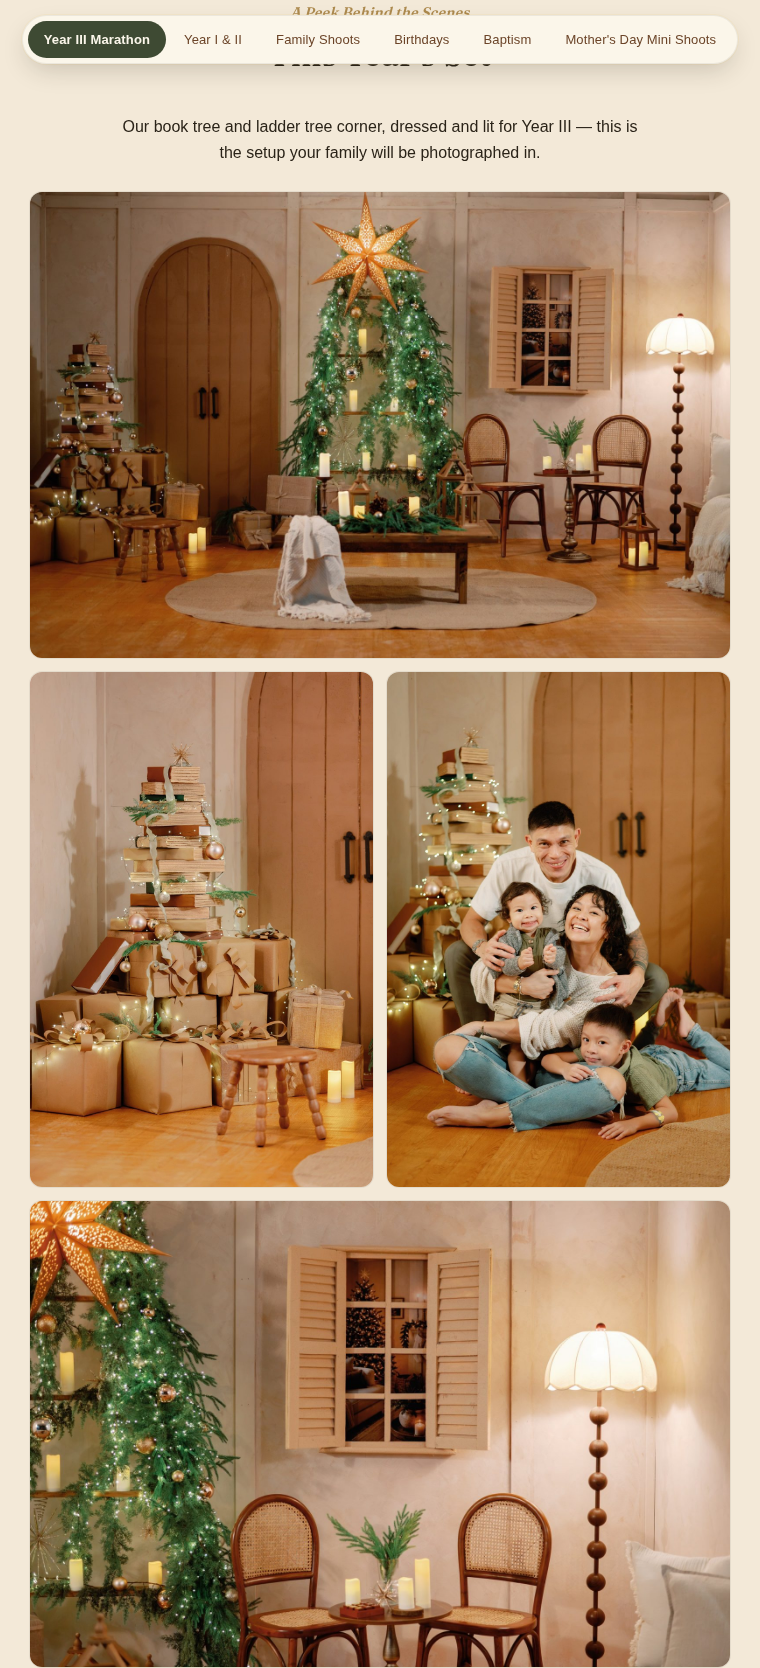
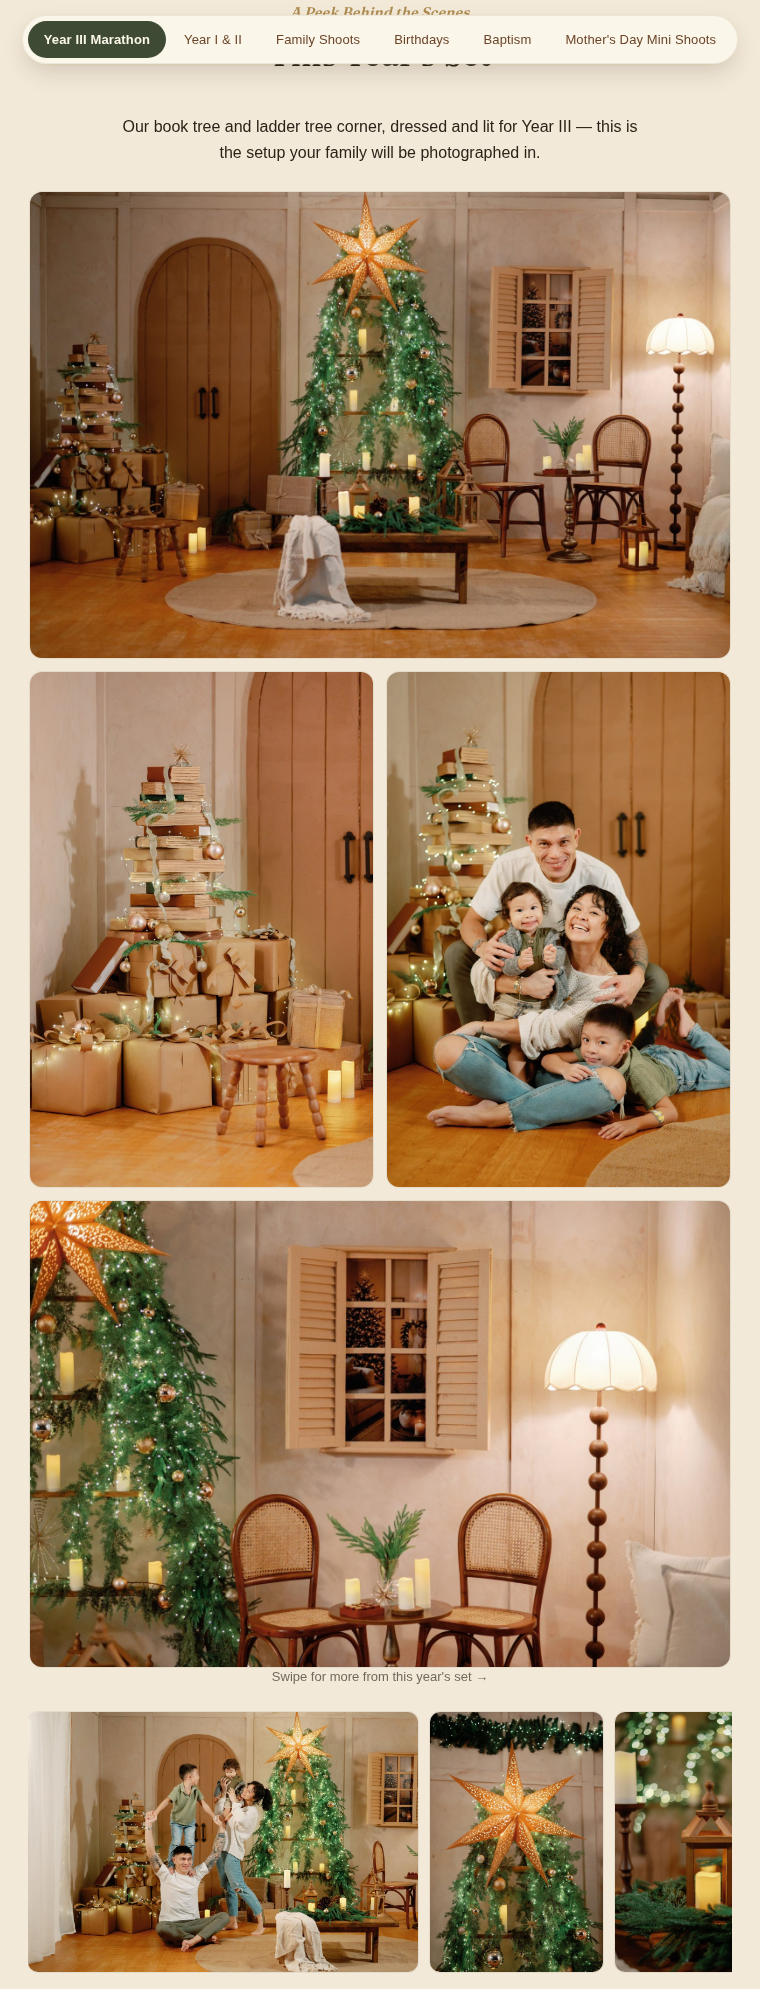
Add files via upload

diff --git a/index.html b/index.html
@@ -366,6 +366,16 @@
     color:var(--ink); opacity:0.7; font-style:italic;
   }
 
+  /* ---------- set strip (This Year's Set, extra photos) ---------- */
+  .set-strip{
+    display:flex; gap:12px; overflow-x:auto; -webkit-overflow-scrolling:touch;
+    scroll-snap-type:x mandatory; padding:4px 2px 16px; margin-top:20px;
+  }
+  .set-strip a{ flex:0 0 auto; scroll-snap-align:start; display:block; border-radius:10px; overflow:hidden; box-shadow:0 0 0 1px rgba(0,0,0,0.06); }
+  .set-strip img{ height:220px; width:auto; display:block; }
+  @media (min-width:680px){ .set-strip img{ height:260px; } }
+  .set-strip-note{ text-align:center; font-size:13px; color:var(--ink); opacity:0.65; margin:0 0 2px; }
+
   /* ---------- tab panels ---------- */
   .tab-panel{ display:none; }
   .tab-panel[data-tab="marathon"]{ display:block; }
@@ -457,6 +467,18 @@
     <a href="set2026-booktree.jpg" target="_blank" rel="noopener noreferrer"><img src="set2026-booktree.jpg" loading="lazy" alt="Close-up of the stacked-book Christmas tree accent on this year's set" style="aspect-ratio:2/3;"></a>
     <a href="set2026-family.jpg" target="_blank" rel="noopener noreferrer"><img src="set2026-family.jpg" loading="lazy" alt="A real family posing together on this year's Christmas set" style="aspect-ratio:2/3;"></a>
     <a href="set2026-window.jpg" target="_blank" rel="noopener noreferrer" style="grid-column:1/-1;"><img src="set2026-window.jpg" loading="lazy" alt="Detail of the lit ladder tree and window nook on this year's set" style="aspect-ratio:3/2;width:100%;height:auto;"></a>
+  </div>
+
+  <p class="set-strip-note">Swipe for more from this year's set &rarr;</p>
+  <div class="set-strip">
+    <a href="set2026-playful.jpg" target="_blank" rel="noopener noreferrer"><img src="set2026-playful.jpg" loading="lazy" alt="A family playing together on this year's Christmas set, dad lifting his son up"></a>
+    <a href="set2026-ladder-ornaments.jpg" target="_blank" rel="noopener noreferrer"><img src="set2026-ladder-ornaments.jpg" loading="lazy" alt="The glowing star topper on the ladder tree"></a>
+    <a href="set2026-lantern-candle.jpg" target="_blank" rel="noopener noreferrer"><img src="set2026-lantern-candle.jpg" loading="lazy" alt="Wooden lantern and candle detail among pine and pinecones on the set"></a>
+    <a href="set2026-tictactoe.jpg" target="_blank" rel="noopener noreferrer"><img src="set2026-tictactoe.jpg" loading="lazy" alt="A cozy seating nook on the set with a wooden tic-tac-toe game and candles"></a>
+    <a href="set2026-booktree-bokeh.jpg" target="_blank" rel="noopener noreferrer"><img src="set2026-booktree-bokeh.jpg" loading="lazy" alt="Close-up of the book tree with twinkling lights in the background"></a>
+    <a href="set2026-lantern-bokeh.jpg" target="_blank" rel="noopener noreferrer"><img src="set2026-lantern-bokeh.jpg" loading="lazy" alt="Candles and a glittered star ornament with soft bokeh lights in the background"></a>
+    <a href="set2026-gifts-macro.jpg" target="_blank" rel="noopener noreferrer"><img src="set2026-gifts-macro.jpg" loading="lazy" alt="Close-up of a wrapped gift with a burlap ribbon bow on the set"></a>
+    <a href="set2026-full-alt.jpg" target="_blank" rel="noopener noreferrer"><img src="set2026-full-alt.jpg" loading="lazy" alt="Another view of the full Year III set, with the ladder tree, seating area, and lamp"></a>
   </div>
 </section>
 
